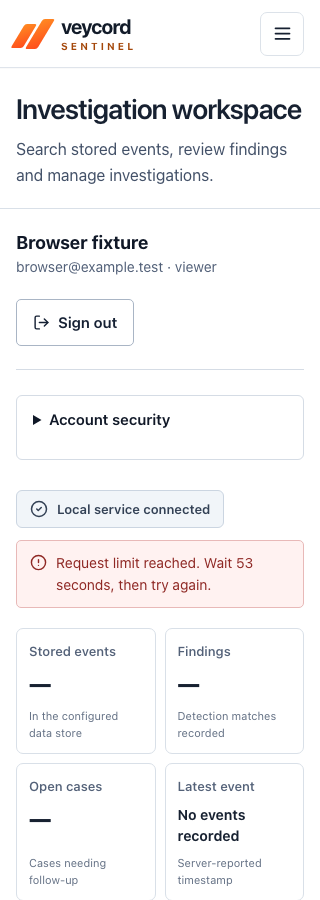
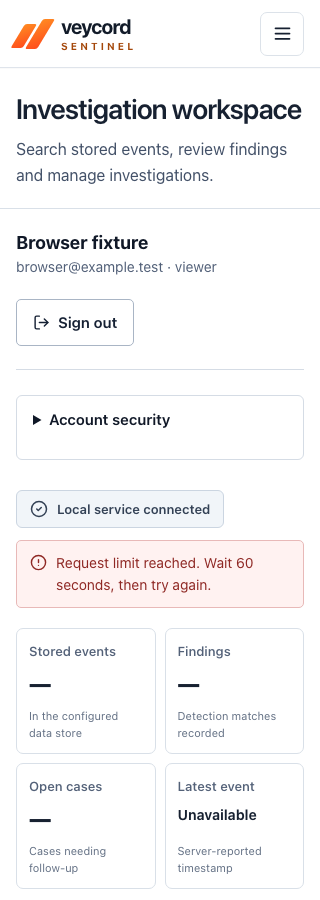
Distinguish unavailable summaries and stabilize real quota browser coverage

Changed region(s): [[0.5312, 0.9022, 0.8125, 0.9956], [0.0938, 0.9333, 0.3438, 0.9956], [0.75, 0.6222, 0.7812, 0.6533]]

diff --git a/tests/identity.test.ts b/tests/identity.test.ts
@@ -3,7 +3,7 @@ import test from 'node:test'
 import { createHash, createHmac, randomBytes, randomUUID } from 'node:crypto'
 import { promisify } from 'node:util'
 import { execFile as execCallback, spawn } from 'node:child_process'
-import { writeFile } from 'node:fs/promises'
+import { readFile, writeFile } from 'node:fs/promises'
 import { join } from 'node:path'
 import { Pool } from 'pg'
 import { createGateway } from '../server/gateway.js'
@@ -261,13 +261,31 @@ test('private identity integration: MFA, recovery, revocation, roles, expiry and
     })
     if(process.env.SENTINEL_BROWSER_AUDIT==='true')await t.test('standalone account browser workflow and readable mobile viewport',async()=>{
       const password=randomBytes(24).toString('base64url');const email='browser@example.test';await operator('provision',{email,name:'Browser fixture',password,role:'viewer'})
-      const input=join(fixture.temp,'browser.json');await writeFile(input,JSON.stringify({email,password}),{mode:0o600})
+      const input=join(fixture.temp,'browser.json');const control=join(fixture.temp,'browser-control')
+      await writeFile(input,JSON.stringify({email,password,control}),{mode:0o600})
+      const completed=new Set<string>();let applying=false;let controlFailure:unknown
+      const timer=setInterval(()=>{void (async()=>{
+        if(applying)return;applying=true
+        try{
+          const action=await readFile(control,'utf8').catch(()=>'')
+          if(completed.has(action)||!['empty','lock'].includes(action))return
+          if(action==='empty'){
+            const client=await admin.connect()
+            try{await client.query('BEGIN');for(const table of ['cases','findings','events'])await client.query(`DELETE FROM public.${table} WHERE workspace_id=$1`,[fixture.workspaceId]);await client.query('COMMIT')}catch{await client.query('ROLLBACK');throw new Error('Synthetic empty-state setup failed')}finally{client.release()}
+          }else{
+            // Test-only fixed window prevents a legitimate minute rollover between429 and reload.
+            await admin.query(`UPDATE sentinel_identity.workspace_budget SET window_start=date_trunc('minute',now())+interval '1 minute',attempts=1 WHERE workspace_id=$1 AND user_id=(SELECT id FROM sentinel_identity."user" WHERE email=$2) AND kind='read'`,[fixture.workspaceId,email])
+          }
+          completed.add(action);await writeFile(control+'.ack',action,{mode:0o600})
+        }catch(error){controlFailure=error}finally{applying=false}
+      })()},50)
+
       const runtime={...env} as Record<string,string|undefined>;delete runtime.DATABASE_ADMIN_URL;delete runtime.SENTINEL_APP_PASSWORD;delete runtime.SENTINEL_AUTH_RUNTIME_PASSWORD;delete runtime.DATABASE_ADMIN_ALLOW_LOCAL_INSECURE
       const child=spawn(process.execPath,['build/server/node.js'],{env:{...runtime,SENTINEL_PORT:new URL(origin).port},stdio:'ignore'})
       try {
         let ready=false;for(let i=0;i<50;i++){try{ready=(await fetch(origin+'/api/v1/health')).ok}catch{}if(ready)break;await new Promise(r=>setTimeout(r,100))}assert.ok(ready,'standalone server must start')
-        const result=await execFile(process.env.SENTINEL_TEST_PYTHON??'python3',['scripts/identity_browser_audit.py'],{env:{...process.env,VEYCORD_AUDIT_URL:origin,SENTINEL_IDENTITY_FIXTURE:input},timeout:45000});assert.match(result.stdout,/"passed": true/)
-      } finally{child.kill('SIGTERM');await new Promise<void>(resolve=>{if(child.exitCode!==null)resolve();else child.once('exit',()=>resolve())})}
+        const result=await execFile(process.env.SENTINEL_TEST_PYTHON??'python3',['scripts/identity_browser_audit.py'],{env:{...process.env,VEYCORD_AUDIT_URL:origin,SENTINEL_IDENTITY_FIXTURE:input},timeout:45000});assert.match(result.stdout,/"passed": true/);if(controlFailure)throw controlFailure
+      } finally{clearInterval(timer);child.kill('SIGTERM');await new Promise<void>(resolve=>{if(child.exitCode!==null)resolve();else child.once('exit',()=>resolve())})}
     })
   } finally{await gateway.close();await fixture.close()}
 })

diff --git a/src/PrivateWorkspace.tsx b/src/PrivateWorkspace.tsx
@@ -637,7 +637,7 @@ export default function PrivateWorkspace({ sessionAccess }: { sessionAccess?: { 
             <article><span>Stored events</span><strong>{summary?.eventCount ?? "—"}</strong><small>In the configured data store</small></article>
             <article><span>Findings</span><strong>{summary?.findingCount ?? "—"}</strong><small>Detection matches recorded</small></article>
             <article><span>Open cases</span><strong>{summary?.openCaseCount ?? "—"}</strong><small>Cases needing follow-up</small></article>
-            <article><span>Latest event</span><strong className="is-date">{isoDate(summary?.latestEventAt ?? null)}</strong><small>Server-reported timestamp</small></article>
+            <article><span>Latest event</span><strong className="is-date">{summary ? isoDate(summary.latestEventAt) : "Unavailable"}</strong><small>Server-reported timestamp</small></article>
           </section>
 
           <section className="private-workspace__section private-workspace__analytics" aria-labelledby="private-analytics-title">

diff --git a/scripts/identity_browser_audit.py b/scripts/identity_browser_audit.py
@@ -14,6 +14,15 @@ output.mkdir(parents=True, exist_ok=True)
 def check(name, passed):
     checks.append({'name': name, 'passed': bool(passed)})
     assert passed, name
+def fixture_action(action):
+    # Local test coordinator controls only this disposable synthetic database.
+    control=Path(fixture['control'])
+    control.write_text(action);control.chmod(0o600)
+    for attempt in range(100):
+        if Path(str(control)+'.ack').exists() and Path(str(control)+'.ack').read_text()==action:
+            return
+        time.sleep(0.05)
+    raise AssertionError('Synthetic fixture coordinator did not acknowledge '+action)
 def otp(secret):
     key=base64.b32decode(secret+'='*((8-len(secret)%8)%8))
     digest=hmac.new(key,struct.pack('>Q',int(time.time())//30),hashlib.sha1).digest()
@@ -70,6 +79,16 @@ with sync_playwright() as p:
         page.reload(wait_until='networkidle')
         expect(page.get_by_role('heading',name='Events',exact=True)).to_be_visible()
         check('cookie session restores after reload',True)
+        latest=page.get_by_role('region',name='Stored data summary').locator('article').filter(has_text='Latest event')
+        expect(latest.locator('strong')).not_to_have_text('Unavailable')
+        expect(latest.locator('strong')).not_to_have_text('No events recorded')
+        check('loaded nonempty summary displays a real timestamp',True)
+        fixture_action('empty')
+        page.reload(wait_until='networkidle')
+        expect(latest.locator('strong')).to_have_text('No events recorded')
+        check('successful empty summary reports no events',True)
+        page.screenshot(path=str(output/'empty-summary-320.png'),full_page=False)
+        fixture_action('lock')
         # Bounded synthetic burst against the actual backend, not a mocked 429.
         limited=None
         for attempt in range(125):
@@ -88,6 +107,8 @@ with sync_playwright() as p:
             raise
         expect(page.locator('.private-workspace__message.is-error')).to_contain_text('Request limit reached.')
         check('workspace explains the wait after429',True)
+        expect(latest.locator('strong')).to_have_text('Unavailable')
+        check('rate-limited summary is unavailable rather than empty',True)
         page.locator('.private-workspace__message.is-error').scroll_into_view_if_needed()
         page.screenshot(path=str(output/'rate-limited-320.png'),full_page=False)
         page.get_by_role('button',name='Sign out',exact=True).click()

diff --git a/docs/tickets/BUILD-BATCH-012.md b/docs/tickets/BUILD-BATCH-012.md
@@ -16,3 +16,9 @@ The first quota browser test timed out waiting for network idle even though `/wo
 Local checks:48 unit/configuration results,26 identity results (25 scenarios including actual multi-process/browsers), two PostgreSQL/private-browser results, standard/public builds and five public Worker checks passed. The final sequential build/unit/identity rerun also passed; exact-head GitHub CI and final review remain pending. Visual review found a remaining truthful-state bug: Latest event shows No events recorded when a fresh429 prevents summary loading; distinguish unavailable from a successful empty result before acceptance. Independent review, production proxy/TLS/operations, public/anonymous abuse controls, full service-wide quotas and commercial release gates remain open. No public Site deployment or private configuration edit was made.
 
 Primary implementation reference: [PostgreSQL16 INSERT/ON CONFLICT](https://www.postgresql.org/docs/16/sql-insert.html). Atomic database updates provide shared counters; the integration results establish this implementation's observed behavior, not a throughput guarantee.
+
+## Reset continuation — 2026-10-29
+
+The cc48e3d head passed CodeQL40933798036 but failed verify40933798032 at the browser quota-message assertion. Its rendered route was `/workspace` with real populated counts and a timestamp: the database minute legitimately rolled over between the initial429 and reload. The test now coordinates with its disposable-database parent through a private fixture file to hold that window. No app endpoint or production clock override was introduced; the actual429/message requirement remains.
+
+The same fixture also exercises a real empty database, then quota unavailability. Latest event now reports `Unavailable` until a summary is loaded; only a successful empty summary reports `No events recorded`. Normal populated data still shows its timestamp. Browser evidence has22 passing checks, with readable320px empty and quota screenshots. Regular build,48 unit and26 identity results pass locally. The preserved synthetic identity-v2 lab passed enrolled TOTP login, event read200 and logout401 at actual Vite5178; its private config and original private database were not changed. New final-head CI remains required. The one-shot resume automation was deleted after this usable continuation.

diff --git a/docs/audit/HANDOFF.md b/docs/audit/HANDOFF.md
@@ -69,3 +69,9 @@ Stop implementation at the owner's cutoff. Final sequential regular build,48 uni
 One real UI issue remains from inspecting account-quota-320.png: on a fresh rate-limited load, Latest event says `No events recorded` because summary is unavailable, which incorrectly suggests the store is empty. Distinguish unavailable summary from a successful empty result, verify real rendered quota/normal states and refresh evidence. Do not just weaken selectors. Also perform an actual enrolled-login/read/logout check against Vite5178 after its synthetic lab upgrade to identity schema2 (setup succeeded; private config files/accounts preserved). No new account credentials should be printed.
 
 Resume from BUILD-BATCH-012.md, workspace-budget-review.json and git status/log. Remaining source is unmerged draft PR16. Inspect current head/CI first, fix real failures, retain CSP, original private config/PostgreSQL/public synthetic separation. Stop before10% remaining. A one-shot reset continuation should be deleted after its next usable run.
+
+### Batch012 follow-up — quota/empty-state fix
+
+The reset continuation found cc48e3d verify40933798032 failed at the quota-message assertion while rendered `/workspace` correctly showed populated data after a legitimate minute rollover; CodeQL40933798036 passed. Test-only file coordination now holds the disposable DB quota window and creates a successful empty state without app test routes. Latest event distinguishes unavailable summary from successful empty data. Build/48 unit/26 identity results pass; browser22 checks cover populated, empty and quota states. Screenshots account-quota-320.png and account-empty-summary-320.png were inspected. Preserved synthetic schema2 lab passed real enrolled TOTP/event200/logout401 on Vite5178 (owned session93438); original private config/database untouched.
+
+The one-shot resume-sentinel-persistent-account-limits automation was deleted successfully. Keep draft PR16 unmerged and hosting deferred. New source requires exact-head GitHub verify/CodeQL; do not reuse cc48 or4002e93 evidence. No additional dependencies.
